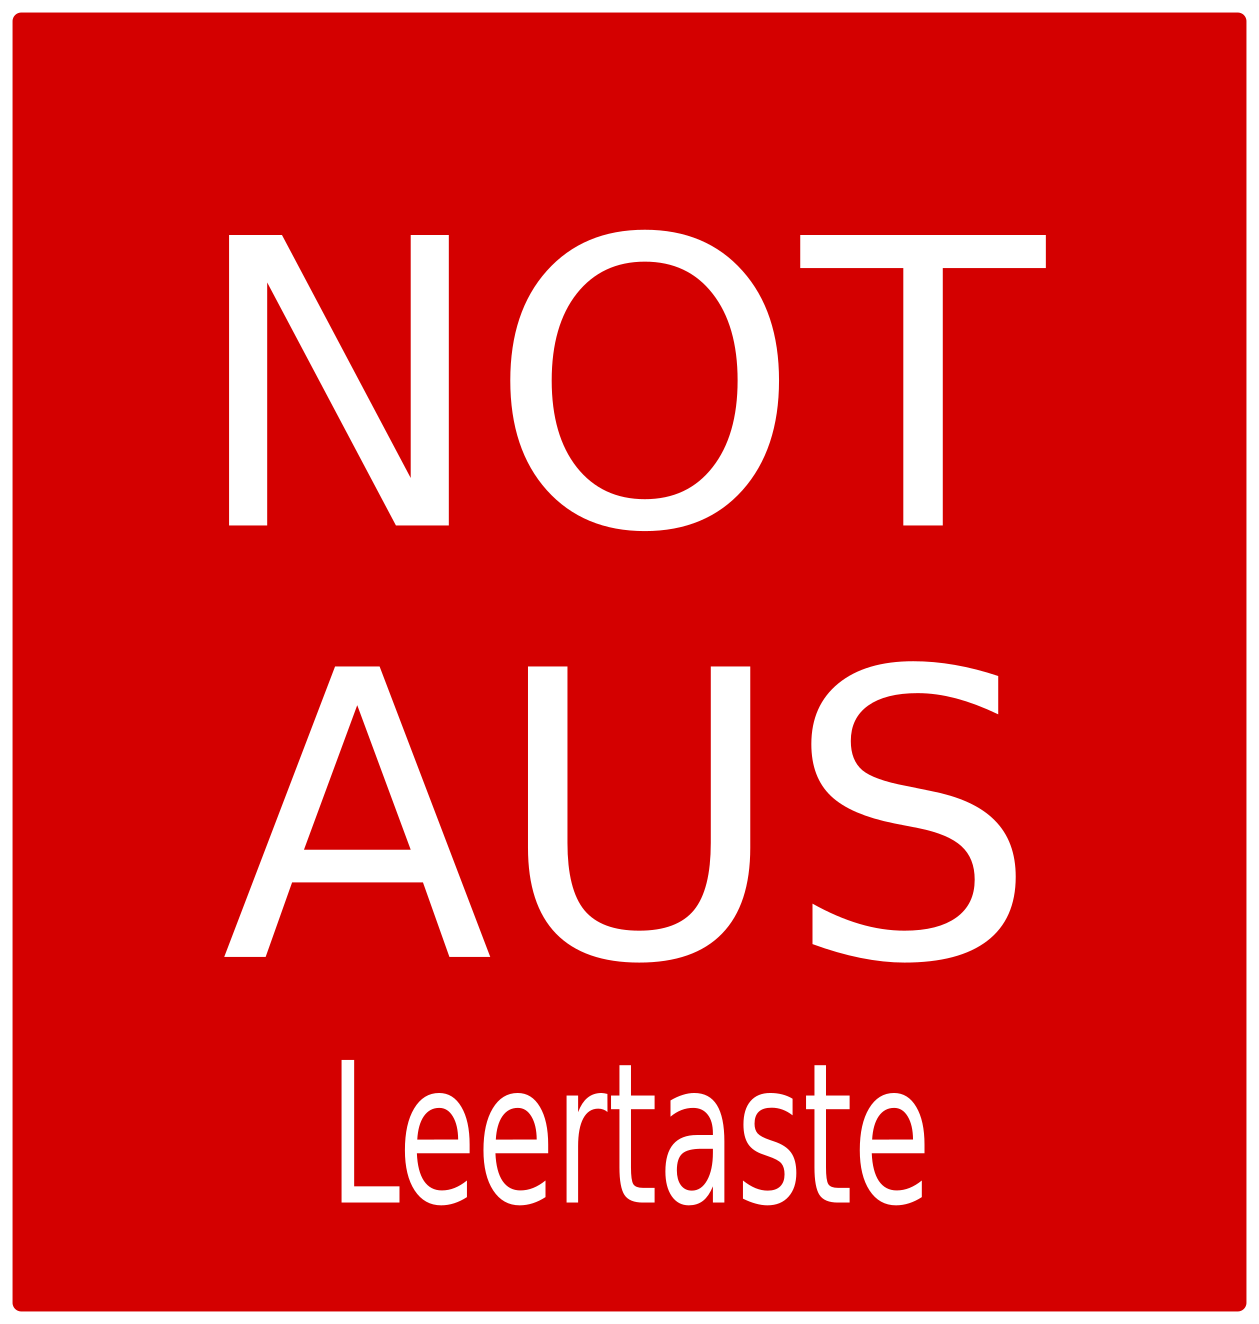
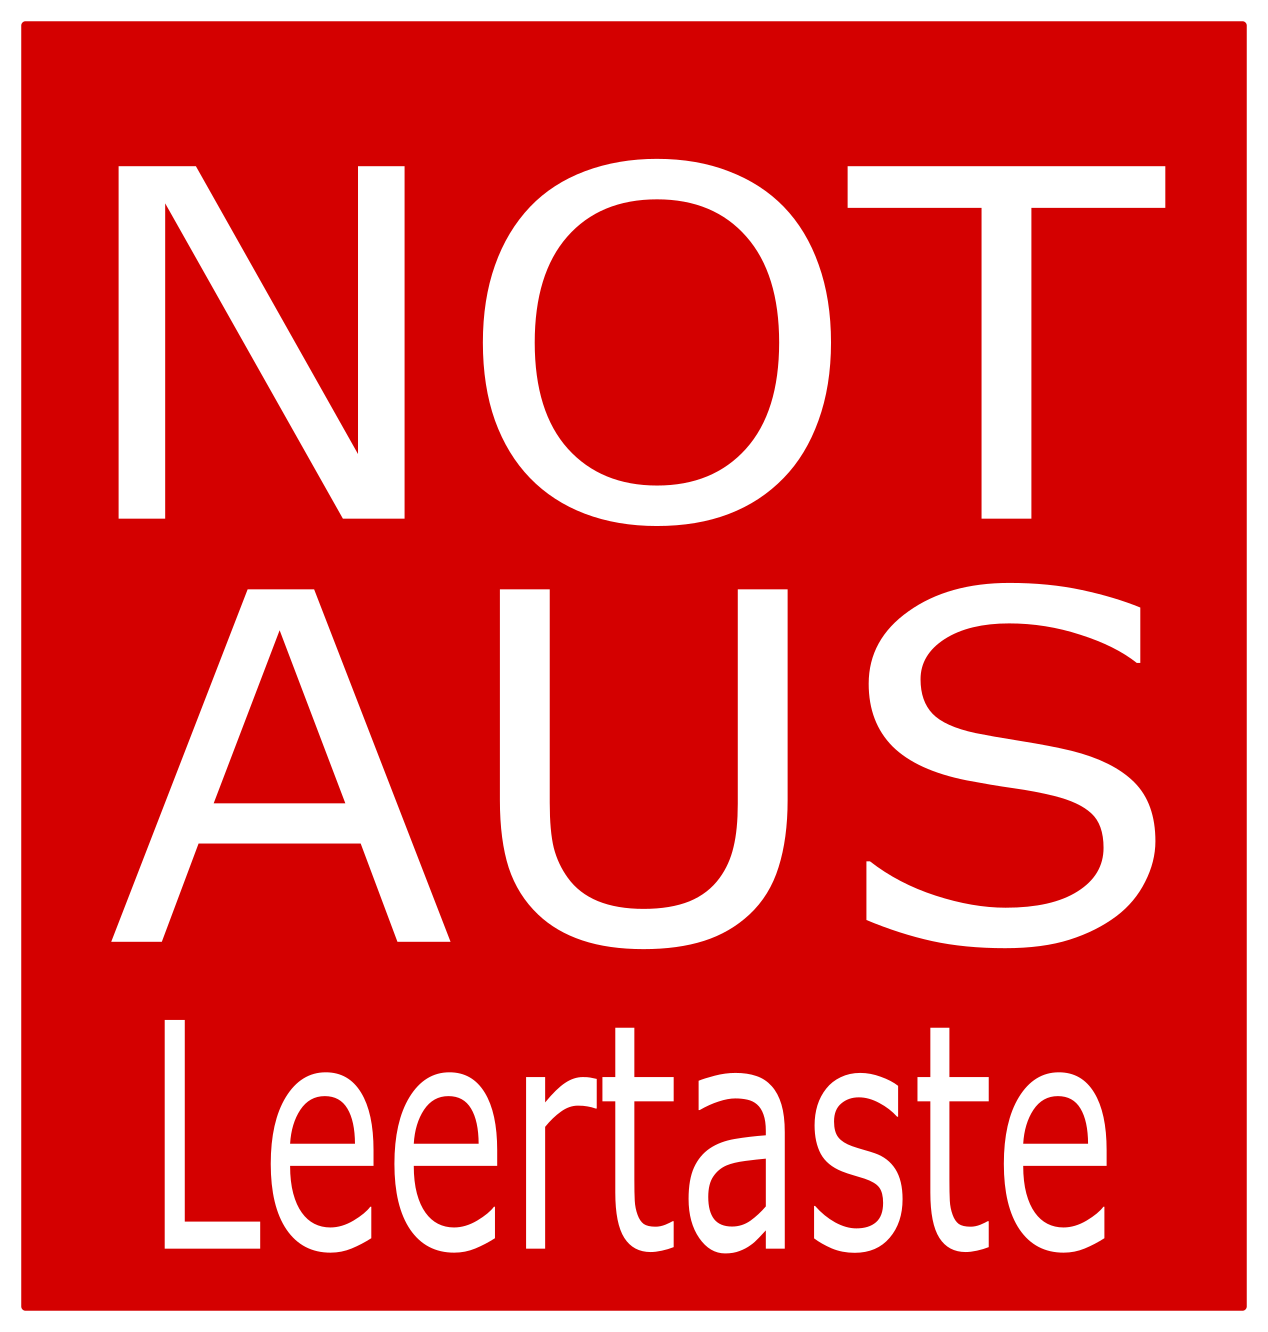
bottom bar UI complete

Changed region(s): [[0.0, 0.0, 0.9913, 0.9909], [0.0929, 0.0929, 0.9293, 0.4026], [0.0929, 0.4335, 0.9293, 0.7432]]

diff --git a/src/application/SampleView.java b/src/application/SampleView.java
@@ -36,28 +36,46 @@ public class SampleView extends StackPane {
 		Label rightLabel = new Label("R");
 		rightLabel.setStyle("-fx-font-size: 2em; -fx-text-fill: white");
 
+		// left track-control box
 		VBox leftTrack = (VBox) buildVBox(linkerTrackVorImageView, linkerTrackZurueckImageView, 5);
 		VBox rightTrack = (VBox) buildVBox(rechterTrackVorImageView, rechterTrackZurueckImageView, 5);
 		VBox leftLabelAndTrack = (VBox) buildVBox(leftLabel, leftTrack, 10);
 		VBox rightLabelAndTrack = (VBox) buildVBox(rightLabel, rightTrack, 10);
 		HBox leftControls = (HBox) buildHBox(leftLabelAndTrack, rightLabelAndTrack, 5);
 		leftControls.setPadding(new Insets(10));
-
+		
+		// right tower-control box
 		VBox baseTurning = (VBox) buildVBox(drehenMitUhrzeigerImageView, drehenGegenUhrzeigerImageView, 5);
 		VBox armLift = (VBox) buildVBox(armHebenImageView, armSenkenImageView, 5);
 		HBox rightControls = (HBox) buildHBox(baseTurning, armLift, 5);
 		rightControls.setAlignment(Pos.BOTTOM_CENTER);
 		rightControls.setPadding(new Insets(10));
 		
-		BorderPane bottomBar = new BorderPane();
-		bottomBar.setStyle("-fx-background-color: #000");
-		bottomBar.setLeft(leftControls);
-		bottomBar.setRight(rightControls);
-		bottomBar.setAlignment(leftControls, Pos.CENTER);
-		bottomBar.setAlignment(rightControls, Pos.BOTTOM_CENTER);
+		// light and paddle wheel in VBoxes for better alignment
+		VBox schaufelRadBox = new VBox(schaufelRadImageView);
+		schaufelRadBox.setPadding(new Insets(0, 0, 10, 0));
+		schaufelRadBox.setAlignment(Pos.BOTTOM_LEFT);
+		VBox lichtBox = new VBox(lichtImageView);
+		lichtBox.setPadding(new Insets(0, 0, 32, 0));
+		lichtBox.setAlignment(Pos.BOTTOM_LEFT);
+
+		BorderPane bottomCenteBorderPane = new BorderPane();
+		bottomCenteBorderPane.setLeft(schaufelRadBox);
+		bottomCenteBorderPane.setAlignment(schaufelRadBox, Pos.BOTTOM_LEFT);
+		bottomCenteBorderPane.setRight(lichtBox);
+		bottomCenteBorderPane.setAlignment(lichtBox, Pos.BOTTOM_RIGHT);
+		bottomCenteBorderPane.setCenter(notAusImageView);
+
+		BorderPane bottomBarBorderPane = new BorderPane();
+		bottomBarBorderPane.setStyle("-fx-background-color: #000");
+		bottomBarBorderPane.setLeft(leftControls);
+		bottomBarBorderPane.setCenter(bottomCenteBorderPane);
+		bottomBarBorderPane.setRight(rightControls);
+		bottomBarBorderPane.setAlignment(leftControls, Pos.CENTER);
+		bottomBarBorderPane.setAlignment(rightControls, Pos.BOTTOM_CENTER);
 		
 		BorderPane mainBorderPane = new BorderPane();
-		mainBorderPane.setBottom(bottomBar);
+		mainBorderPane.setBottom(bottomBarBorderPane);
 		getChildren().add(mainBorderPane);
 	}
 	
